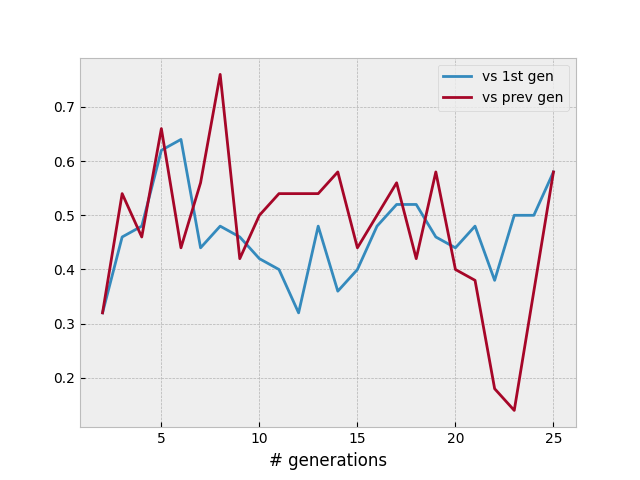
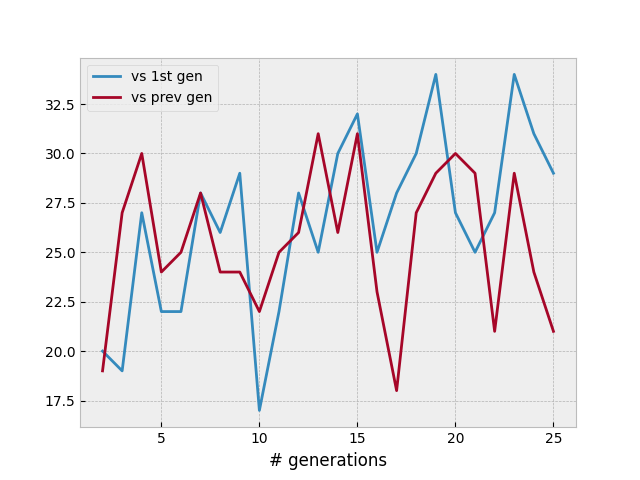
tried to fix genetic algo graphs

diff --git a/genetic_alg_folder/genetic_alg.py b/genetic_alg_folder/genetic_alg.py
@@ -135,7 +135,7 @@ class GeneticAlgorithm():
     def hard_cut(self, players):
         top_n = int(len(players)/4)
         players.sort(key=lambda x: x.score, reverse=True)
-        return players[:top_n]
+        return [player.copy() for player in players[:top_n]]
     
     def subset(self, input_set, num):
         set_copy = list(input_set)
@@ -156,7 +156,7 @@ class GeneticAlgorithm():
             i = scores.index(max(scores))
             result.append(r_subset[i])
             players_copy.remove(r_subset[i])
-        return result
+        return [player.copy() for player in result]
     
     def tournament(self, rr_or_b, players): # scoring and selection
         # rr is round robin, b is bracket
@@ -170,9 +170,25 @@ class GeneticAlgorithm():
             elif rr_or_b == 'b':
                 self.bracket_comps(r_subset)
             else:
-                print('bruh moment')
+                print('bruh moment (genetic alg tournament)')
             result.append(r_subset[0])
-        return result
+            players_copy.remove(r_subset[0])
+        return [player.copy() for player in result]
+    
+    def top_players(self, players, fitness, selection):
+        players_copy = self.copy(players)
+        if selection == 'tourney':
+            players_copy = self.tournament(fitness, players_copy)
+        else:
+            if fitness == 'rr':
+                self.round_robin(players_copy)
+            elif fitness == 'b':
+                self.bracket_comps(players_copy)
+            if selection == 'cut':
+                players_copy = self.hard_cut(players_copy)
+            elif selection == 'stoch':
+                players_copy = self.stochastic(players_copy)
+        return players_copy
     
     def mate(self, player_pair, mutat_rate):
         new_player = Player()

diff --git a/genetic_alg_folder/test_genetic_alg.py b/genetic_alg_folder/test_genetic_alg.py
@@ -8,7 +8,7 @@ import matplotlib.pyplot as plt
 gens = list(range(2,26))
 pop_size = 32
 fitness = 'b' # rr or b (bracket)
-selection = 'tourney' # cut or stoch or tourney
+selection = 'cut' # cut or stoch or tourney
 mut_rate = 0.001
 
 vs_gen_1 = []
@@ -22,7 +22,7 @@ for gen in gens:
     while gen_alg.generation != gen:
         prev_gen = gen_alg.copy(gen_alg.all_players)
         gen_alg.make_new_gen(fitness, selection, mut_rate)
-    new_gen = gen_alg.all_players
+    new_gen = gen_alg.top_players(gen_alg.all_players, fitness, selection)
     vs_gen_1_wins = 0
     vs_prev_gen_wins = 0
     print(new_gen[0].gen)
@@ -38,14 +38,15 @@ for gen in gens:
         game_1.run_to_completion()
         game_2.run_to_completion()
         
-        if game_1.winner != 'Tie' and game_1.players[game_1.winner-1].gen == gen:
-            vs_gen_1_wins += 1
-        if game_2.winner != 'Tie' and game_2.players[game_2.winner-1].gen == gen:
-            vs_prev_gen_wins += 1
-    print(f'vs gen 1: {vs_gen_1_wins}')
-    print(f'vs prev gen: {vs_prev_gen_wins}')
-    vs_gen_1.append(vs_gen_1_wins/50)
-    vs_prev_gen.append(vs_prev_gen_wins/50)
+        if game_1.winner != 'Tie':
+            if game_1.players[game_1.winner-1].gen == gen:
+                vs_gen_1_wins += 1
+        if game_2.winner != 'Tie':
+            if game_2.players[game_2.winner-1].gen == gen:
+                vs_prev_gen_wins += 1
+
+    vs_gen_1.append(vs_gen_1_wins)
+    vs_prev_gen.append(vs_prev_gen_wins)
 
 plt.style.use('bmh')
 plt.plot(gens, vs_gen_1, label='vs 1st gen')

diff --git a/test.py b/test.py
@@ -1,10 +1,18 @@
 import sys
 sys.path.append('genetic_alg_folder')
 from genetic_alg import *
+from tic_tac_toe import *
+import random as r
 
 gen_alg = GeneticAlgorithm(8)
 gen_1 = gen_alg.copy(gen_alg.all_players)
-print(gen_1[0].gen)
 gen_alg.make_n_gens(10, 'rr', 'cut', 0.001)
-gen_n = gen_alg.copy(gen_alg.all_players)
-print(gen_n[0].gen)
+gen_11 = gen_alg.copy(gen_alg.all_players)
+
+comp_pair = [r.choice(gen_1), r.choice(gen_11)]
+r.shuffle(comp_pair)
+game = TicTacToeGene(comp_pair)
+game.run_to_completion()
+print(game.winner)
+print([player.gen for player in comp_pair])
+print(game.players[game.winner - 1].gen)
